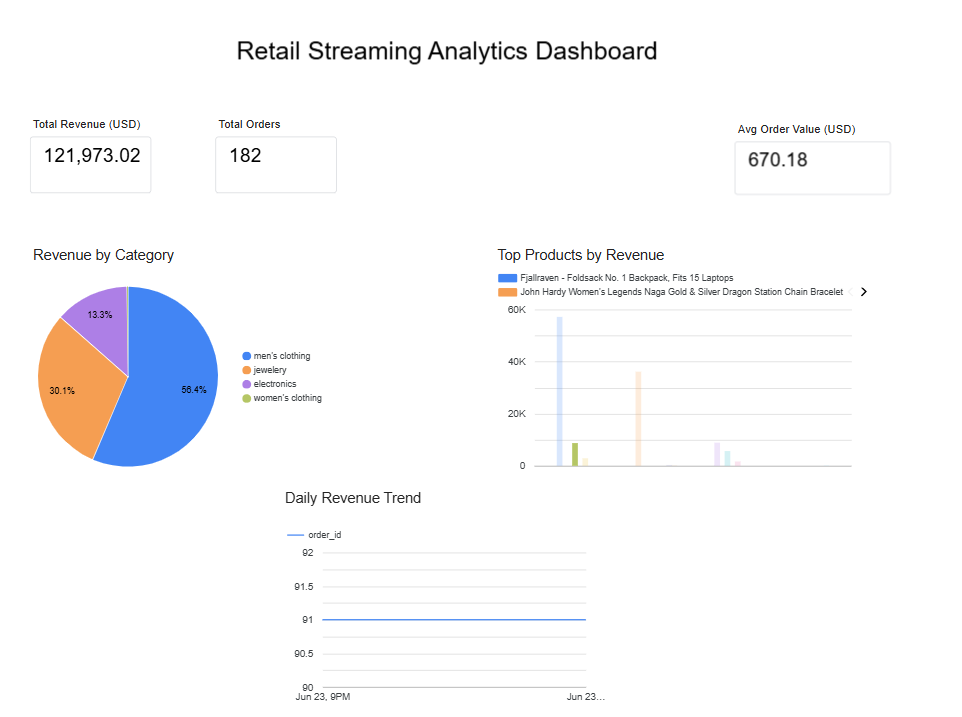
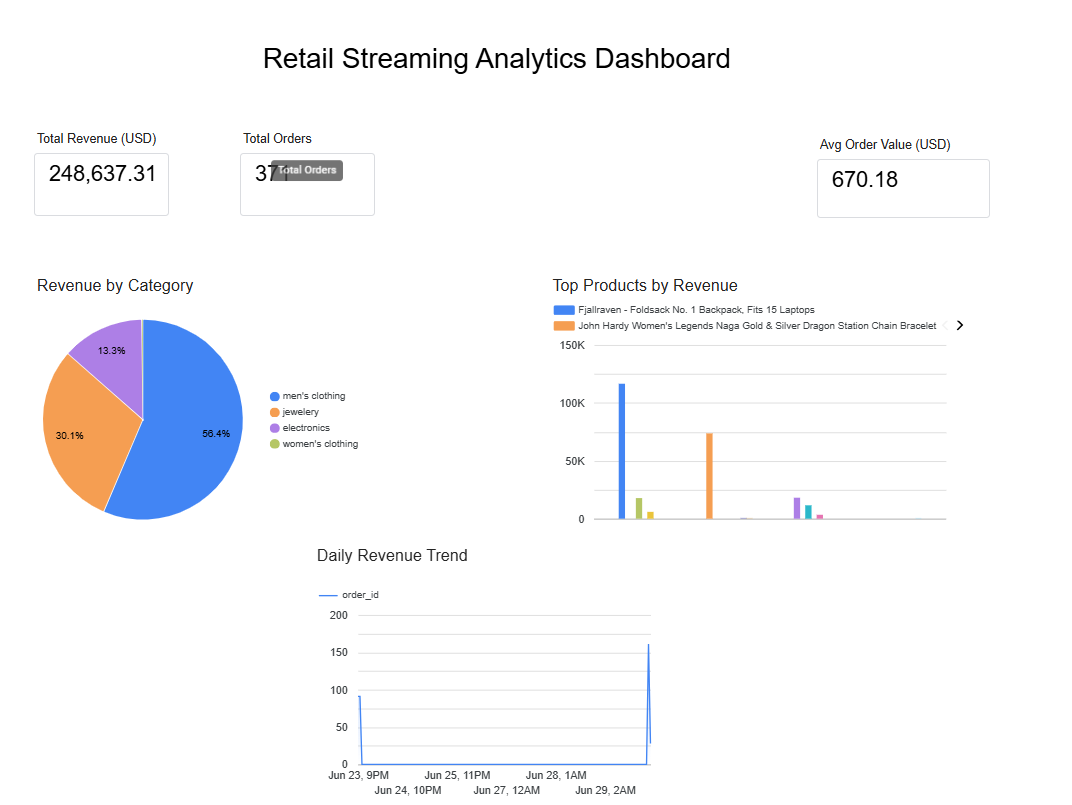
docs: add dashboard and dataflow execution screenshots

diff --git a/dataflow_jobs/stream_pipeline.py b/dataflow_jobs/stream_pipeline.py
@@ -92,9 +92,9 @@ def run():
     gcp_options = options.view_as(GoogleCloudOptions)
     gcp_options.project = PROJECT_ID
     gcp_options.region = "us-west1"
-    gcp_options.staging_location = "gs://retail-stream-pipeline-bucket-east/staging"
-    gcp_options.temp_location = "gs://retail-stream-pipeline-bucket-east/temp"
-    gcp_options.job_name = "retail-stream-job-3"
+    gcp_options.job_name = "retail-stream-job-final"
+    gcp_options.staging_location = "gs://retail-stream-pipeline-bucket-west/staging"
+    gcp_options.temp_location = "gs://retail-stream-pipeline-bucket-west/temp"
 
     worker_options = options.view_as(WorkerOptions)
     worker_options.machine_type = "e2-medium"

diff --git a/README.md b/README.md
@@ -71,6 +71,12 @@ Live dashboard connected to BigQuery showing:
 
 ![Dashboard](docs/dashboard_screenshot.png)
 
+## Dataflow Job Execution
+
+![Dataflow Job Graph](docs/dataflow_job_graph.png)
+
+Pipeline executed on Google Cloud Dataflow with `DataflowRunner`, processing live order events from Pub/Sub with sub-second operation latency across all transformation stages.
+
 ## Project Setup
 
 ### Prerequisites